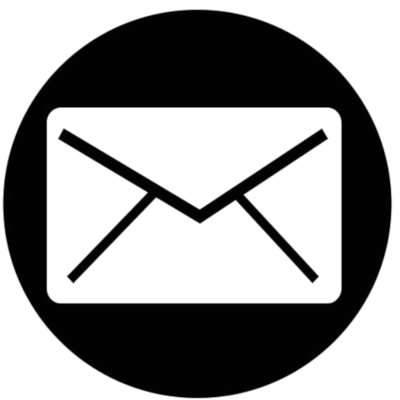
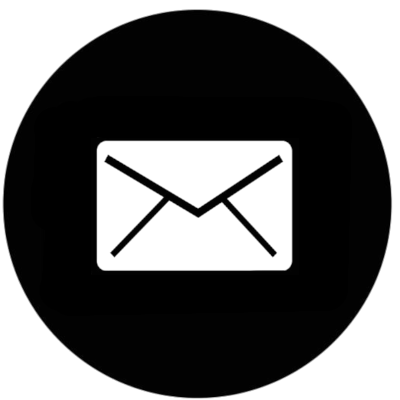
add freecodecamp details

Changed region(s): [[0.09, 0.27, 0.87, 0.78]]

diff --git a/portfolio/index.html b/portfolio/index.html
@@ -33,14 +33,22 @@
 							<img
 									class="contact-icon"
 									src="img/github_icon.png"
-									alt="github">
+									alt="github link">
 							</a>
 							
-							<a href = "mailto: vivek.thazhathattil@gmail.com">
+							<a href="mailto: vivek.thazhathattil@gmail.com">
 							<img
 									class="contact-icon"
 									src="img/email_icon.png"
-									alt="email">
+									alt="email link">
+							</a>
+							<a 
+								href="https://www.freecodecamp.org/vivekthazhathattil"
+								target="_blank">
+								<img
+									class="contact-icon"
+									src="img/fcc_logo.png"
+									alt="free code camp link">
 							</a>
 						</div> <!-- contact-container -->
 					</div> <!-- deafult-about-container -->

diff --git a/portfolio/styles.css b/portfolio/styles.css
@@ -126,7 +126,6 @@ a{
 	border-radius: 10px;
 }
 .showcase-card:hover{
-	border: solid var(--silver-pink) 5px;
 	transform: scale(1.1);
 	transition: 0.1s;
 }
